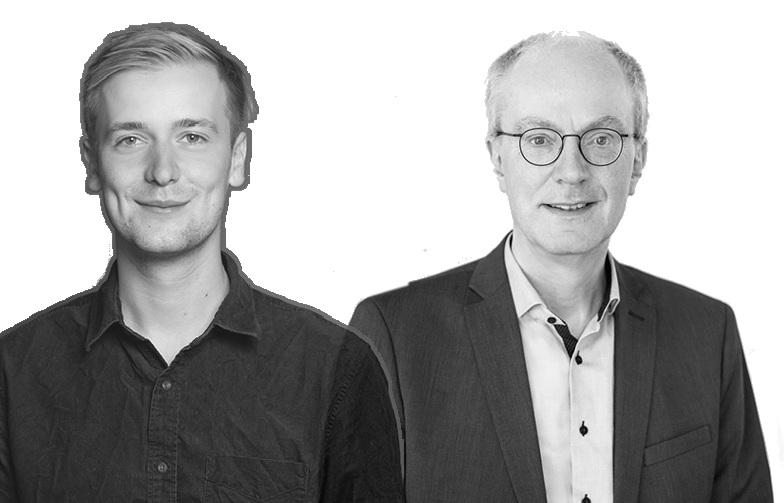
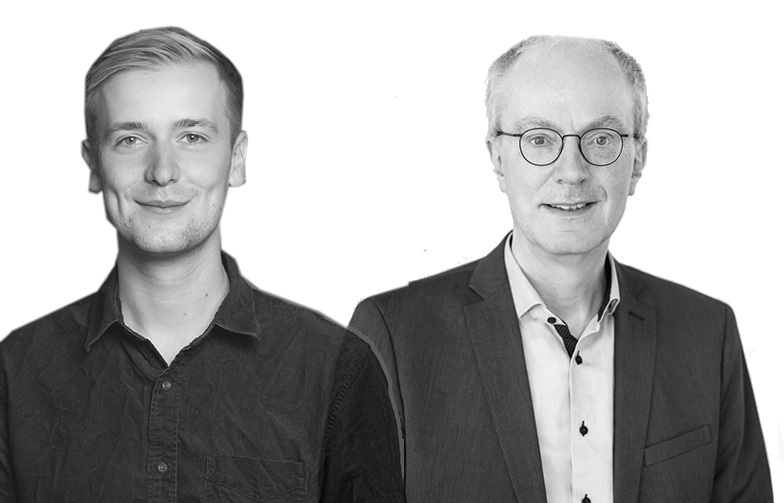
fhe jkp vignette tuned

diff --git a/templates/blog/fhe-jkp.html b/templates/blog/fhe-jkp.html
@@ -55,10 +55,11 @@
     /* x-coord, y-coord - top left - top right */
     --shared-polygon-shape: polygon(
          0%       0%,
-        88%       0%,
-        90%      23%,
-        85%      48%,
-        98%      75%,
+        82%       0%,
+        89%      23%,
+        82%      48%,
+        96%      70%,
+        99%      85%,
         99%     100%,
          0%     100%
     );
@@ -76,12 +77,12 @@
 
     background: url("/static/img/blog/fhe-jkp.jpg") no-repeat;
     width:               280px;     /* or clamp(180px,  38vw, 340px)  */
-    height:              182px;     /* cropping, to align with text lines */
+    height:              172px;     /* cropping, to align with text lines */
 
     /* scaling inside cropped area  */
-    background-size:     110% 110%;  
+    background-size:      110% 110%;  
     /* positioning */
-    background-position: -15px -10px;
+    background-position: -17px -10px;
 
 
 
